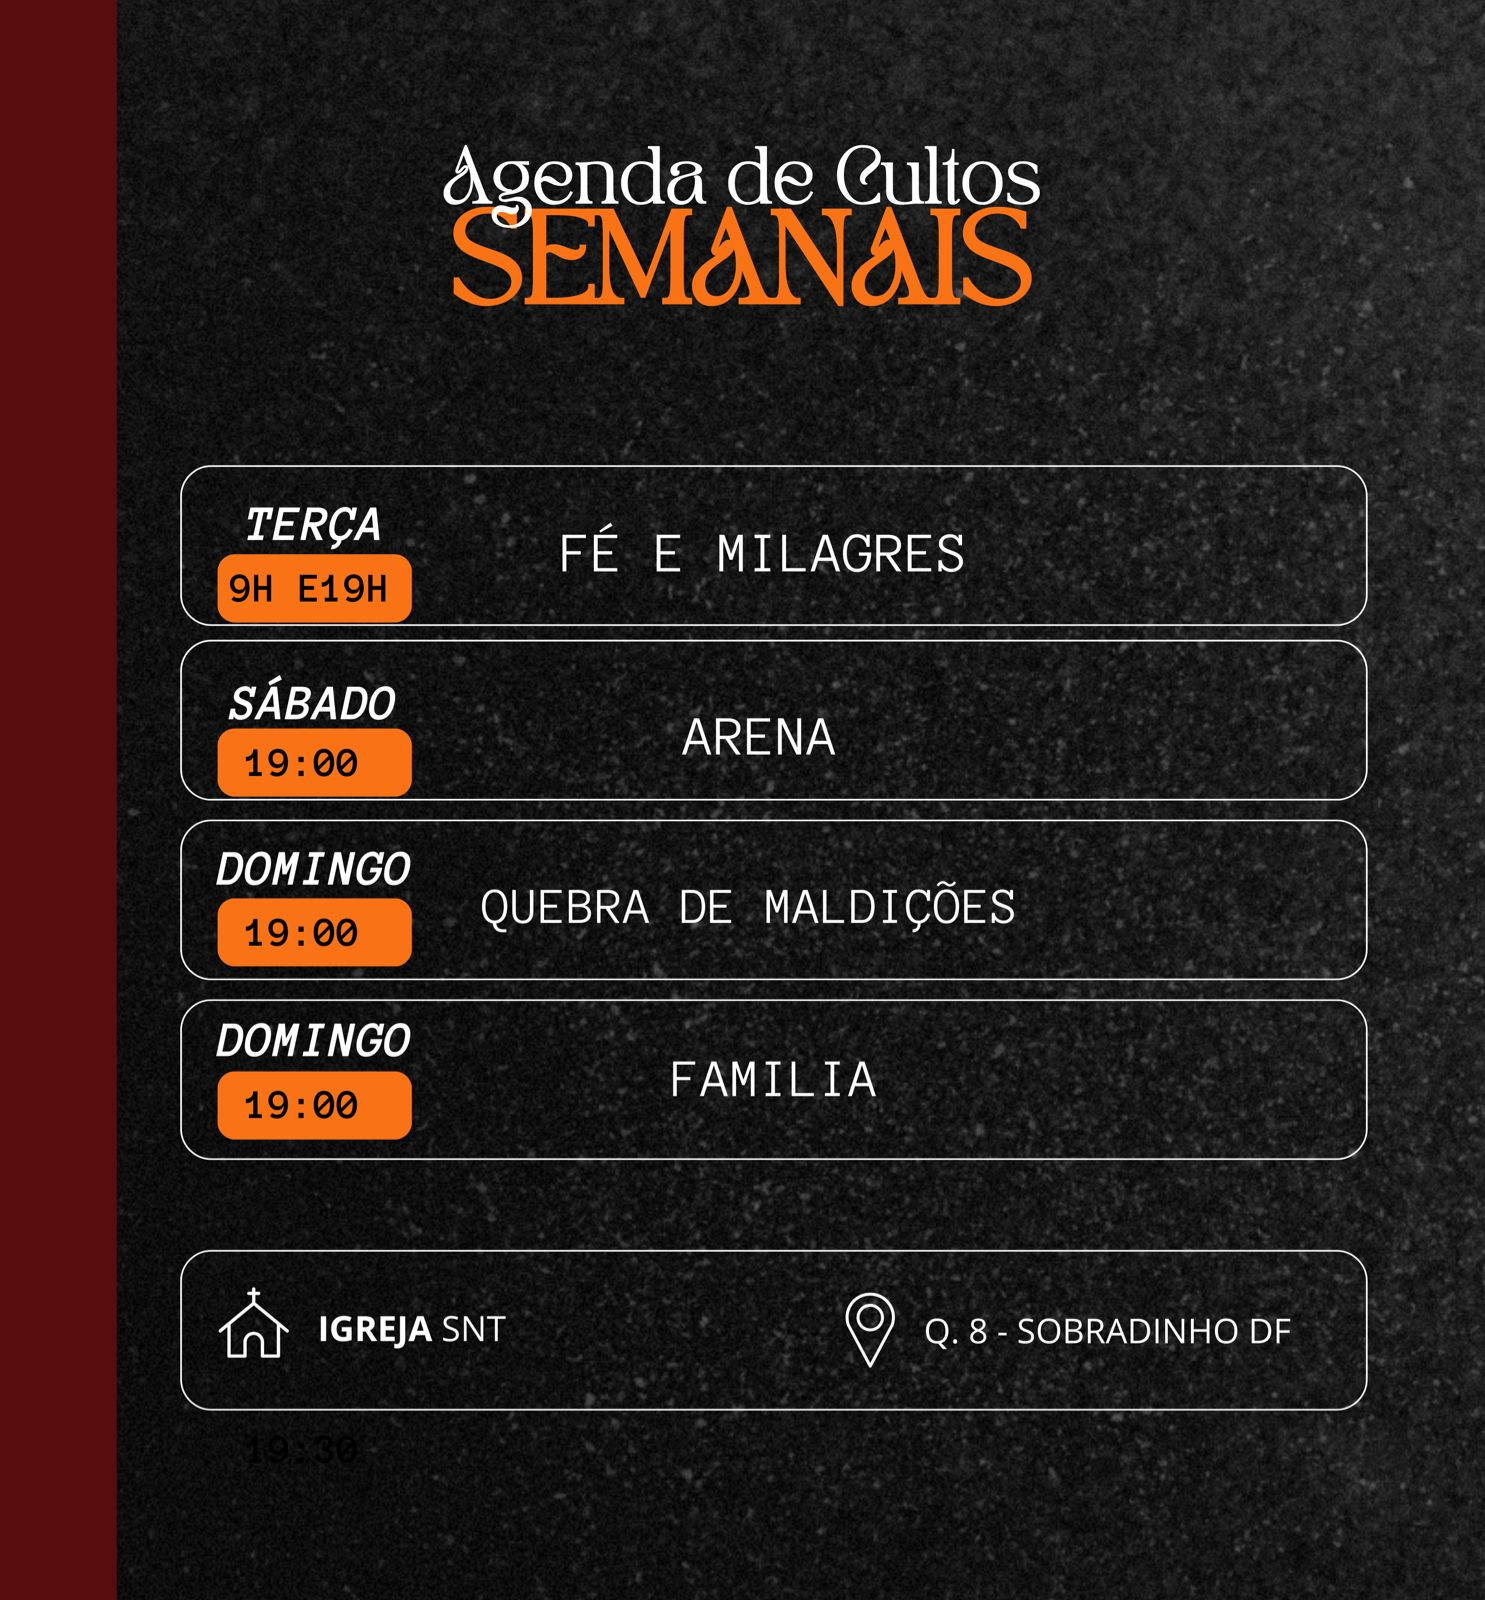
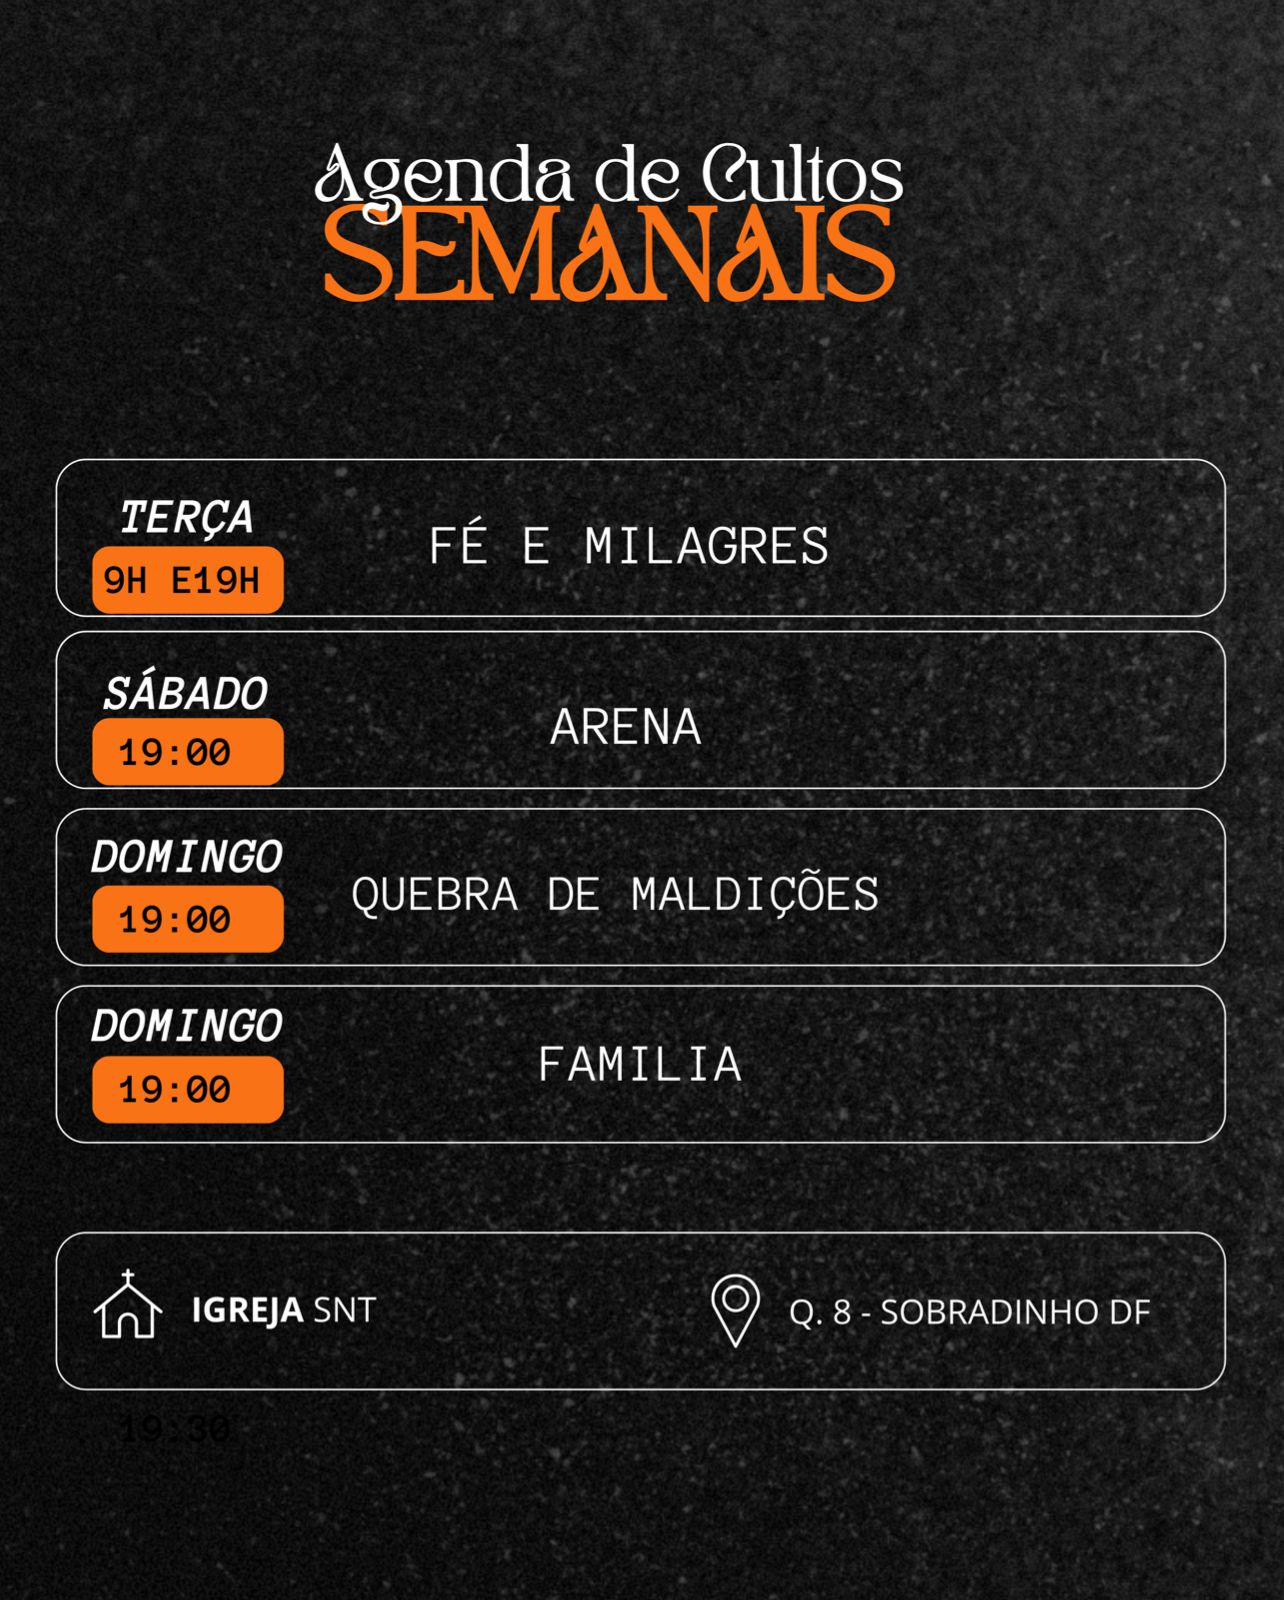
h

diff --git a/index.html b/index.html
@@ -122,7 +122,7 @@
            </nav>
            
     <center>    </div>        
-            <img src="imagem/l.jpeg" width="385" height="50"> <br> <hr>
+            <img src="imagem/principal2.jpeg" width="385" height="50"> <br> <hr>
                <div class="image-gallery" id="image-gallery">
            <div class="scrolling-wrapper" id="scrolling-wrapper"> 
      
